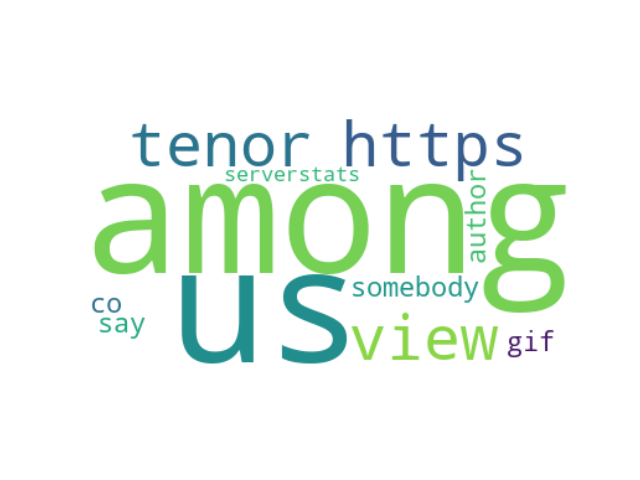
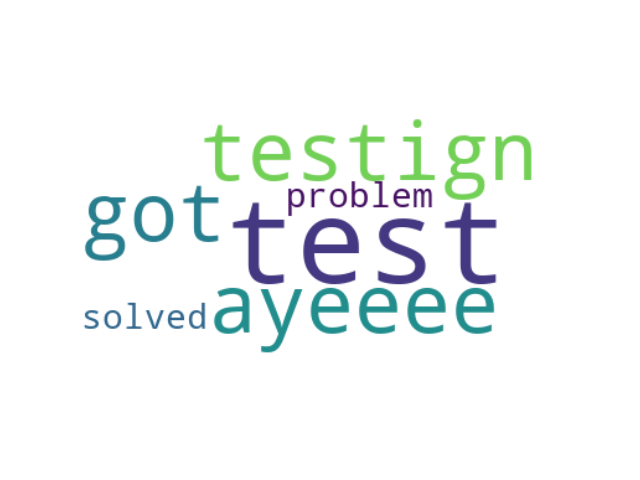
updated word cloud to filter out mentions and links

Changed region(s): [[0.125, 0.25, 0.9062, 0.7812]]

diff --git a/database/db.py b/database/db.py
@@ -20,7 +20,7 @@ def connect_to_db():
     return cnxn, cursor
 
 
-async def store_message_data(username, server, channel, message, date):
+async def store_message_data(username, user_id, server, channel, message, date):
     username = username.split('#')[0]
     mentions = extract_mentions(message)
     links = extract_links(message)
@@ -28,20 +28,21 @@ async def store_message_data(username, server, channel, message, date):
     current_loop = asyncio.get_running_loop()  # Get the currently running loop
 
     try:
-        await current_loop.run_in_executor(None, store_message_in_db, username, server, channel, message, date,
-                                           mentions, links)
+        await current_loop.run_in_executor(
+            None, store_message_in_db, username, user_id, server, channel, message, date, mentions, links)
     except Exception as e:
         print(f"Failed to store message data: {e}")
 
 
-def store_message_in_db(username, servername, channel, message, timestamp, mentions, links):
+def store_message_in_db(username, user_id, servername, channel, message, timestamp, mentions, links):
     cnxn, cursor = connect_to_db()
     try:
         mentions_str = ','.join(mentions)
         links_str = ','.join(links)
-        cursor.execute("INSERT INTO dbo.discord_logs (username, servername, channel, message, timestamp, mentions, "
-                       "links) VALUES (?, ?, ?, ?, ?, ?, ?)", (username, servername, channel, message, timestamp,
-                                                               mentions_str, links_str))
+        cursor.execute("INSERT INTO dbo.discord_logs (username, userid, servername, channel, message, timestamp, "
+                       "mentions, links) VALUES (?, ?, ?, ?, ?, ?, ?, ?)", (username, user_id, servername, channel,
+                                                                            message, timestamp, mentions_str,
+                                                                            links_str))
         cnxn.commit()
     except Exception as e:
         print(f"Error inserting into the database: {e}")

diff --git a/analysis/word_cloud.py b/analysis/word_cloud.py
@@ -9,8 +9,18 @@ from wordcloud import WordCloud
 from configurations.commands import prefixed_commands
 from database.db import connect_to_db
 from discord.errors import HTTPException
+from database.message_extractors import extract_mentions, extract_links
 
 executor = ThreadPoolExecutor()
+
+
+def clean_message(message):
+    """Clean message by removing mentions and links"""
+    for mention in extract_mentions(message):
+        message = message.replace(mention, '')
+    for link in extract_links(message):
+        message = message.replace(link, '')
+    return message
 
 
 async def create_word_cloud(servername, channel, is_private):
@@ -26,10 +36,13 @@ async def create_word_cloud(servername, channel, is_private):
     if df.empty:
         return await channel.send(f"No messages retrieved for {servername}.")
 
+    # Clean messages
+    df['message'] = df['message'].apply(clean_message)
+
     text = ' '.join(df['message'])
     try:
         wordcloud = WordCloud(background_color='white').generate(text)
-    except ValueError as e:
+    except ValueError:
         return await channel.send(f"There is not enough data to generate a word cloud for {servername}.")
 
     plt.imshow(wordcloud, interpolation='bilinear')

diff --git a/discord_bot/events.py b/discord_bot/events.py
@@ -36,6 +36,7 @@ async def on_message(client, message):
         print(f"{message.author} in server '{message.guild.name}' ({message.channel.name}): {message.content}")
         await store_message_data(
             str(message.author),
+            str(message.author.id),
             str(message.guild.name),
             str(message.channel.name),
             message.content,
